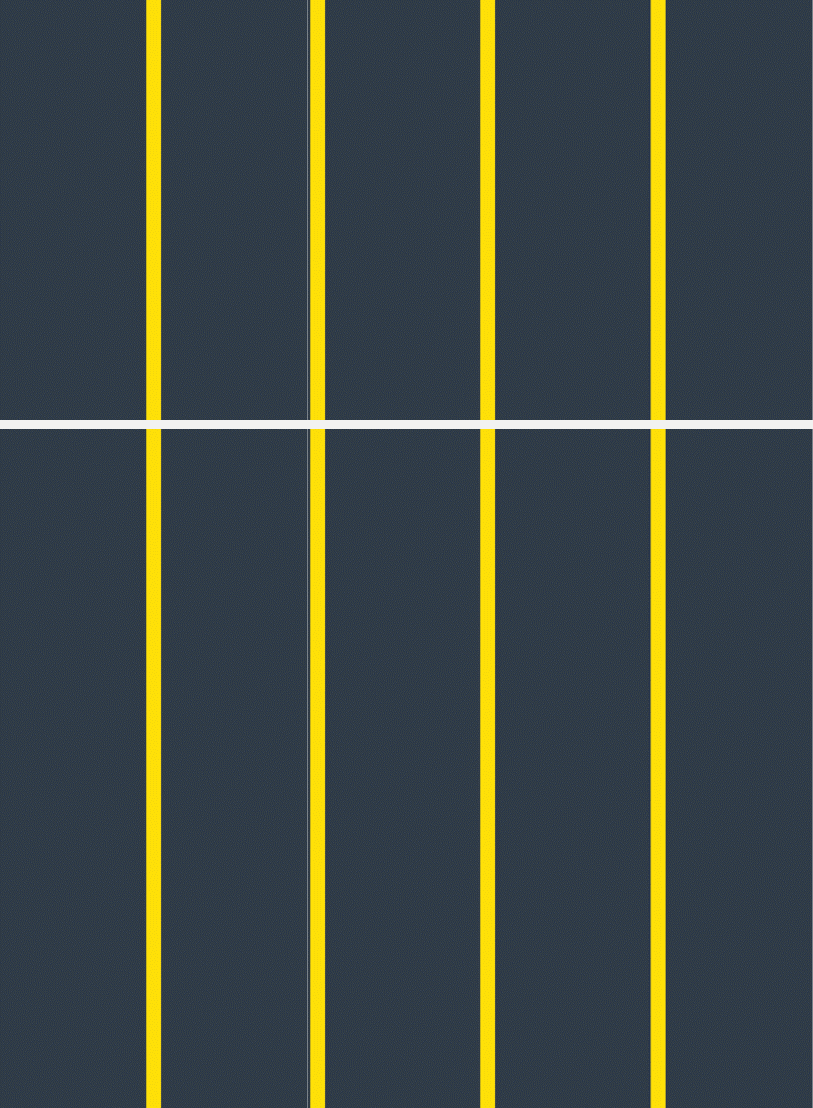
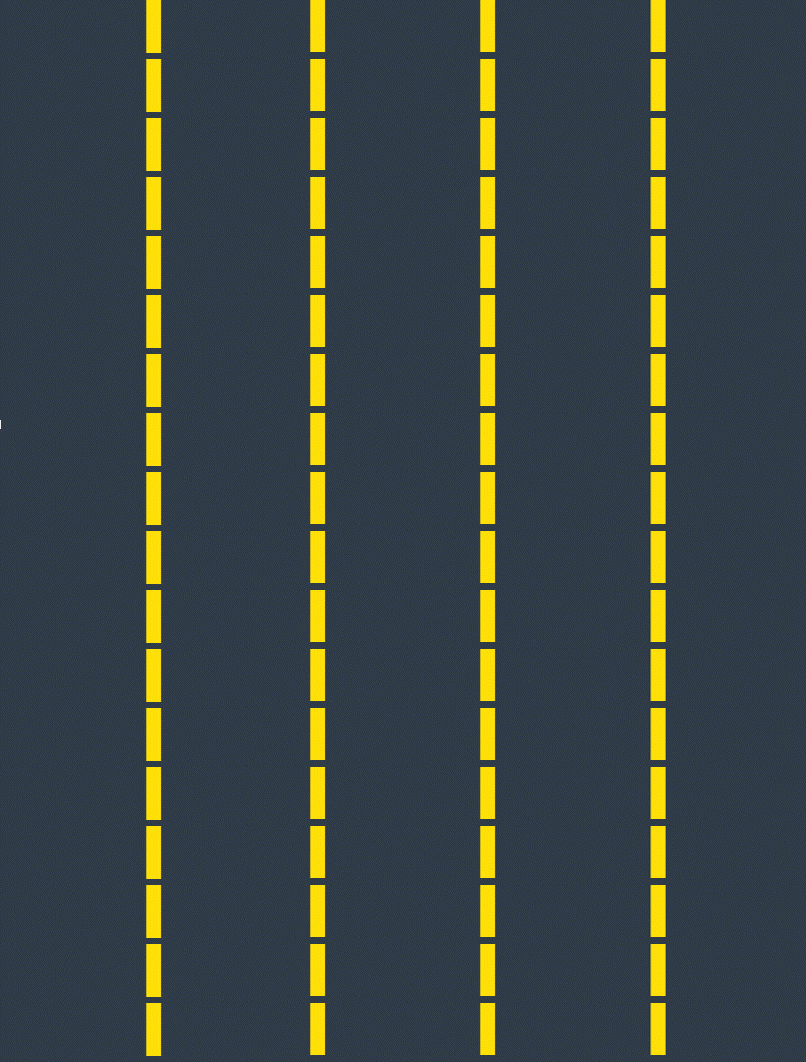
Updated car movement, and road.png.

Changed region(s): [[0.0, 0.0, 1.0, 1.0]]

diff --git a/main.py b/main.py
@@ -27,14 +27,14 @@ BLACK = consts['BLACK']
 RED = consts['RED']
 img_dir = path.join(path.dirname(__file__), 'Assets')
 img_dir = path.join(img_dir,'img')
-
+std_width = int(WIDTH/10)
 
 
 
 
 def load_assets(img_dir):
     assets = {}
-    assets['player_img'] = pygame.image.load(path.join(img_dir, 'Red1.png')).convert()
+    assets['player_img'] = pygame.image.load(path.join(img_dir, 'Cyan1.png')).convert_alpha()
     assets['bullet_img'] = pygame.image.load(path.join(img_dir, 'bullet_3.png')).convert_alpha()
     assets['mob_img'] = pygame.image.load(path.join(img_dir, "Blue2.png")).convert()
     assets['background'] = pygame.image.load(path.join(img_dir, 'road.png')).convert()
@@ -43,8 +43,8 @@ def load_assets(img_dir):
 
 def Transform_Imgs(assets):
     assets['player_img'] = pygame.transform.rotate(assets['player_img'], -90)
-    assets['player_img'] = pygame.transform.scale(assets['player_img'], (53,60))
-    assets['mob_img'] = pygame.transform.scale(assets['mob_img'], (32,45))
+    assets['player_img'] = pygame.transform.scale(assets['player_img'], (std_width,95))
+    assets['mob_img'] = pygame.transform.scale(assets['mob_img'], (std_width,95))
     
     return assets
     
@@ -206,7 +206,7 @@ def Main():
                         player.firerate = 10
             if keys[pygame.K_SPACE] and not fired:
                 if Shots_Fired<=player.burstfire:
-                    bullet = Bullet(assets['bullet_img'], player.rect.centerx, player.rect.bottom, player.speed)
+                    bullet = Bullet(assets['bullet_img'], player.rect.centerx, player.rect.top, player.speed)
                     all_sprites.add(bullet)
                     tiros.add(bullet)
                     Shots_Fired += 1

diff --git a/inimigos.py b/inimigos.py
@@ -25,10 +25,11 @@ class Inimigo(pygame.sprite.Sprite):
         self.radius = int(self.rect.width * .85 / 2)
         self.speedy = 0
     def update(self):
-        self.rect.top += self.speedy
+#        self.rect.top += self.speedy
+        pass
     
     def updateSpeed(self, speedy):
-        self.speedy = speedy
+        self.rect.top += speedy
         
 #        
 #        # loading eneies again
